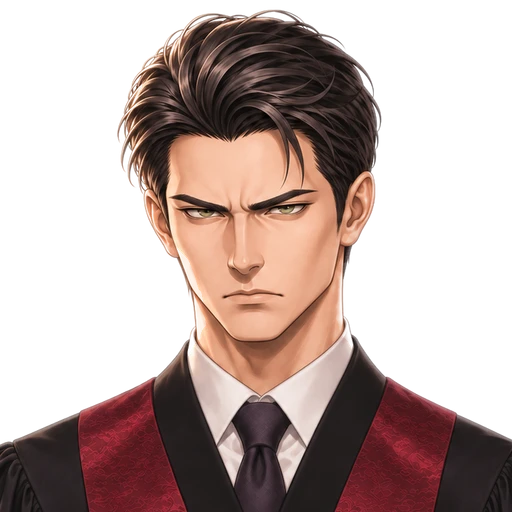
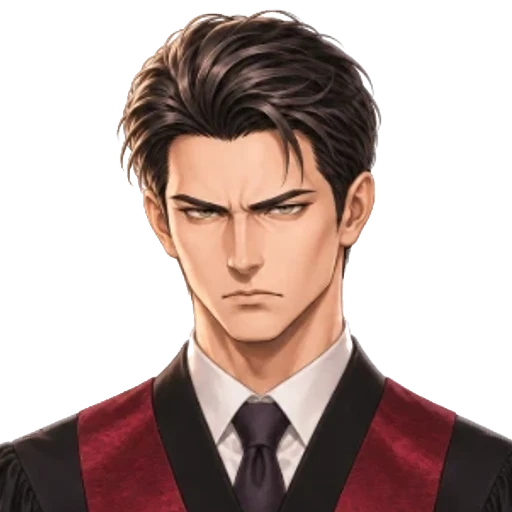
최강혁 검사 그림 턱선 복구, 마지막 이야기 5회 심재곤 신문 다듬기
- 검사 표정 네 장·스토리 그림: 원본에서 다시 잘라 턱 음영이 지워진 문제 고침(흰 테두리만 제거)
- 심재곤 신문: 번호 B 뒤 '그 휴대폰하고 저하고 무슨 관계입니까' → '그 휴대폰도 의원회관에 있었다는 증거', 18시 40분 통화 질문과 녹음 뒤 대사

diff --git a/sw.js b/sw.js
@@ -2,7 +2,7 @@
 // 앱(화면 파일)은 배포할 때마다 새 판으로 바꾸고, 그림(assets/)은 버전과 상관없는 따로 된 저장소에 둔다.
 // 그래서 배포해도 이미 받은 그림은 다시 받지 않는다. 그림은 저장해 둔 것을 바로 보여 주고, 뒤에서 바뀌었는지만 확인한다.
 // 같은 이름의 그림을 다시 그려 바꿨을 때도 다음 실행부터 새 그림이 보인다(뒤에서 확인한 결과).
-const CACHE = "truth-v1796570000000";
+const CACHE = "truth-v1796580000000";
 const IMG = "truth-img-3";
 // 음악(bgm/)도 그림처럼 버전과 상관없는 저장소에 둔다. 처음 들을 때는 인터넷으로 바로 틀고, 뒤에서 곡 전체를 받아 저장한다.
 // 저장된 뒤에는 저장한 곡에서 필요한 부분(Range)을 잘라 준다. 그래서 데이터가 끊겨도 음악이 멈추지 않는다
